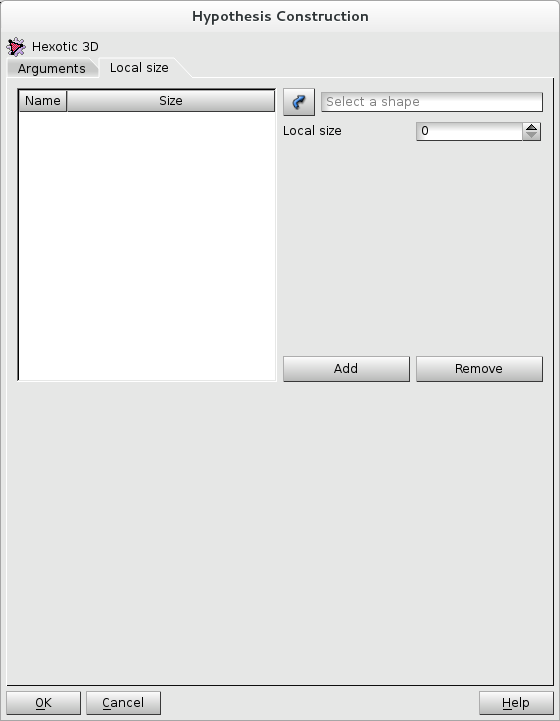
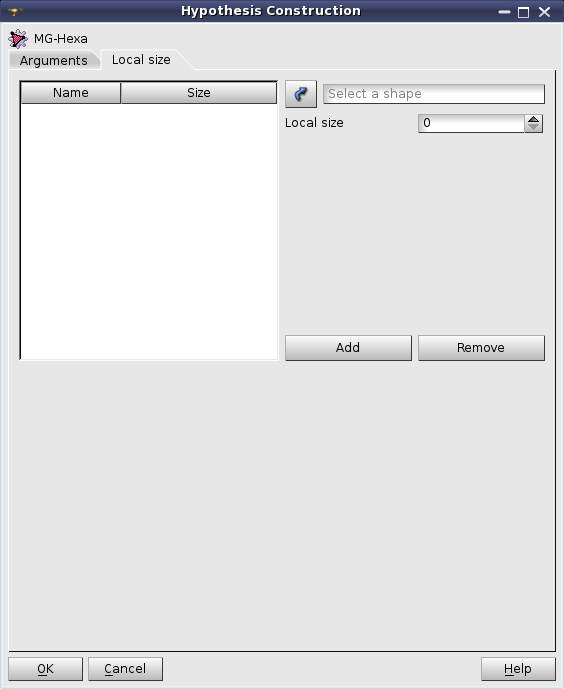
COTECH: Update names of DISTENE products
Almost full replacement of old names

Changed region(s): [[0.0, 0.0, 1.0, 1.0]]

diff --git a/src/GUI/HexoticPLUGIN_msg_ja.ts b/src/GUI/HexoticPLUGIN_msg_ja.ts
@@ -5,7 +5,7 @@
     <name>@default</name>
     <message>
       <source>Hexotic_3D_HYPOTHESIS</source>
-      <translation>Hexotic 3D</translation>
+      <translation>MG-Hexa</translation>
     </message>
     <message>
       <source>Hexotic_3D_TITLE</source>

diff --git a/src/GUI/HexoticPLUGIN_msg_fr.ts b/src/GUI/HexoticPLUGIN_msg_fr.ts
@@ -9,7 +9,7 @@
     </message>
     <message>
         <source>Hexotic_3D_HYPOTHESIS</source>
-        <translation>Hexotic 3D</translation>
+        <translation>MG-Hexa</translation>
     </message>
     <message>
         <source>Hexotic_3D_TITLE</source>

diff --git a/doc/salome/examples/hexoticsubdom3.py b/doc/salome/examples/hexoticsubdom3.py
@@ -19,7 +19,7 @@
 
 import salome
 salome.salome_init()
-import GEOM
+
 from salome.geom import geomBuilder
 geompy = geomBuilder.New(salome.myStudy)
 
@@ -42,36 +42,36 @@ geompy.addToStudy( Cut_2, 'Cut_2' )
 
 # Create filters
 # aFilter1: elements inside small sphere
-aFilter1 = smesh.GetFilterFromCriteria([smesh.GetCriterion(SMESH.VOLUME,SMESH.FT_BelongToGeom,SMESH.FT_Undefined,Sphere_2)])
+aFilter1 = smesh.GetFilter(SMESH.VOLUME,SMESH.FT_BelongToGeom,'=',Sphere_2)
 # aFilter2: elements inside big sphere and not inside small sphere
-aFilter2 = smesh.GetFilterFromCriteria([smesh.GetCriterion(SMESH.VOLUME,SMESH.FT_BelongToGeom,SMESH.FT_Undefined,Sphere_1, SMESH.FT_LogicalAND),
-                                        smesh.GetCriterion(SMESH.VOLUME,SMESH.FT_BelongToGeom,SMESH.FT_Undefined,Sphere_2, SMESH.FT_LogicalNOT)])
+aFilter2 = smesh.GetFilterFromCriteria([smesh.GetCriterion(SMESH.VOLUME,SMESH.FT_BelongToGeom,'=',Sphere_1, SMESH.FT_LogicalAND),
+                                        smesh.GetCriterion(SMESH.VOLUME,SMESH.FT_BelongToGeom,'=',Sphere_2, SMESH.FT_LogicalNOT)])
 # aFilter3: elements not inside big sphere
-aFilter3 = smesh.GetFilterFromCriteria([smesh.GetCriterion(SMESH.VOLUME,SMESH.FT_BelongToGeom,SMESH.FT_Undefined,Sphere_1, SMESH.FT_LogicalNOT)])
+aFilter3 = smesh.GetFilter(SMESH.VOLUME,SMESH.FT_BelongToGeom,'=',Sphere_1, SMESH.FT_LogicalNOT)
 
 # Create mesh of Cut_2 with sd mode 3
 print "Create mesh of Cut_2 with sd mode 3"
-Mesh_hexotic_sd3 = smesh.Mesh(Cut_2, "Mesh_hexotic_sd3")
+Mesh_mghexa_sd3 = smesh.Mesh(Cut_2, "Mesh_mghexa_sd3")
 
-# Create the 2D algo: BlSurf with geometrical mesh
-Mesh_hexotic_sd3.Triangle(algo=smeshBuilder.BLSURF).Parameters().SetGeometricMesh( 1 )
+# Create the 2D algo: MG-CADSurf with geometrical mesh
+Mesh_mghexa_sd3.Triangle(algo=smeshBuilder.MG_CADSurf).SetGeometricMesh( 1 )
 
-# Create the 3D algo: Hexotic with:
+# Create the 3D algo: MG-Hexa with:
 # - minl = 4
 # - maxl = 8
 # - sd = 3
-Mesh_hexotic_sd3.Hexahedron(algo=smeshBuilder.Hexotic).SetMinMaxHexes(4, 8).SetHexoticSdMode( 3 )
+Mesh_mghexa_sd3.Hexahedron(algo=smeshBuilder.MG_Hexa).SetMinMaxHexes(4, 8).SetHexoticSdMode( 3 )
 
 # Create the groups on filters
-g1 = Mesh_hexotic_sd3.GroupOnFilter(SMESH.VOLUME, 'small sphere', aFilter1 )
+g1 = Mesh_mghexa_sd3.GroupOnFilter(SMESH.VOLUME, 'small sphere', aFilter1 )
 g1.SetColor( SALOMEDS.Color( 1, 0, 0 ))
-g2 = Mesh_hexotic_sd3.GroupOnFilter(SMESH.VOLUME, 'big sphere - small sphere', aFilter2 )
+g2 = Mesh_mghexa_sd3.GroupOnFilter(SMESH.VOLUME, 'big sphere - small sphere', aFilter2 )
 g2.SetColor( SALOMEDS.Color( 0, 1, 0 ))
-g3 = Mesh_hexotic_sd3.GroupOnFilter(SMESH.VOLUME, 'box - big sphere', aFilter3 )
+g3 = Mesh_mghexa_sd3.GroupOnFilter(SMESH.VOLUME, 'box - big sphere', aFilter3 )
 g3.SetColor( SALOMEDS.Color( 0, 0, 1 ))
 
 # Compute
-Mesh_hexotic_sd3.Compute()
+Mesh_mghexa_sd3.Compute()
 
 # End of script
 

diff --git a/doc/salome/examples/hexoticsubdom1.py b/doc/salome/examples/hexoticsubdom1.py
@@ -19,7 +19,7 @@
 
 import salome
 salome.salome_init()
-import GEOM
+
 from salome.geom import geomBuilder
 geompy = geomBuilder.New(salome.myStudy)
 
@@ -43,35 +43,35 @@ geompy.addToStudy( Cut_2, 'Cut_2' )
 
 # Create filters
 # aFilter1: elements inside small sphere
-aFilter1 = smesh.GetFilterFromCriteria([smesh.GetCriterion(SMESH.VOLUME,SMESH.FT_BelongToGeom,SMESH.FT_Undefined,Sphere_2)])
+aFilter1 = smesh.GetFilter(SMESH.VOLUME,SMESH.FT_BelongToGeom,'=',Sphere_2)
 # aFilter2: elements inside big sphere and not inside small sphere
-aFilter2 = smesh.GetFilterFromCriteria([smesh.GetCriterion(SMESH.VOLUME,SMESH.FT_BelongToGeom,SMESH.FT_Undefined,Sphere_1, SMESH.FT_LogicalAND),
-                                        smesh.GetCriterion(SMESH.VOLUME,SMESH.FT_BelongToGeom,SMESH.FT_Undefined,Sphere_2, SMESH.FT_LogicalNOT)])
+aFilter2 = smesh.GetFilterFromCriteria([smesh.GetCriterion(SMESH.VOLUME,SMESH.FT_BelongToGeom,'=',Sphere_1, SMESH.FT_LogicalAND),
+                                        smesh.GetCriterion(SMESH.VOLUME,SMESH.FT_BelongToGeom,'=',Sphere_2, SMESH.FT_LogicalNOT)])
 # aFilter3: elements not inside big sphere
-aFilter3 = smesh.GetFilterFromCriteria([smesh.GetCriterion(SMESH.VOLUME,SMESH.FT_BelongToGeom,SMESH.FT_Undefined,Sphere_1, SMESH.FT_LogicalNOT)])
+aFilter3 = smesh.GetFilter(SMESH.VOLUME,SMESH.FT_BelongToGeom,'=',Sphere_1, SMESH.FT_LogicalNOT)
 
 # Create mesh of Cut_2 with sd mode 1
 print "Create mesh of Cut_2 with sd mode 1"
-Mesh_hexotic_sd1 = smesh.Mesh(Cut_2, "Mesh_hexotic_sd1")
+Mesh_mghexa_sd1 = smesh.Mesh(Cut_2, "Mesh_mghexa_sd1")
 
-# Create the 2D algo: BlSurf with geometrical mesh
-Mesh_hexotic_sd1.Triangle(algo=smeshBuilder.BLSURF).Parameters().SetGeometricMesh( 1 )
+# Create the 2D algo: MG-CADSurf with geometrical mesh
+Mesh_mghexa_sd1.Triangle(algo=smeshBuilder.MG_CADSurf).SetGeometricMesh( 1 )
 
-# Create the 3D algo: Hexotic with:
+# Create the 3D algo: MG-Hexa with:
 # - minl = 4
 # - maxl = 8
 # - sd = 1
-Mesh_hexotic_sd1.Hexahedron(algo=smeshBuilder.Hexotic).SetMinMaxHexes(4, 8).SetHexoticSdMode( 1 )
+Mesh_mghexa_sd1.Hexahedron(algo=smeshBuilder.MG_Hexa).SetMinMaxHexes(4, 8).SetHexoticSdMode( 1 )
 
 # Create the groups on filters
-g1 = Mesh_hexotic_sd1.GroupOnFilter(SMESH.VOLUME, 'small sphere', aFilter1 )
+g1 = Mesh_mghexa_sd1.GroupOnFilter(SMESH.VOLUME, 'small sphere', aFilter1 )
 g1.SetColor( SALOMEDS.Color( 1, 0, 0 ))
-g2 = Mesh_hexotic_sd1.GroupOnFilter(SMESH.VOLUME, 'big sphere - small sphere', aFilter2 )
+g2 = Mesh_mghexa_sd1.GroupOnFilter(SMESH.VOLUME, 'big sphere - small sphere', aFilter2 )
 g2.SetColor( SALOMEDS.Color( 0, 1, 0 ))
-g3 = Mesh_hexotic_sd1.GroupOnFilter(SMESH.VOLUME, 'box - big sphere', aFilter3 )
+g3 = Mesh_mghexa_sd1.GroupOnFilter(SMESH.VOLUME, 'box - big sphere', aFilter3 )
 g3.SetColor( SALOMEDS.Color( 0, 0, 1 ))
 
 # Compute
-Mesh_hexotic_sd1.Compute()
+Mesh_mghexa_sd1.Compute()
 
 # End of script

diff --git a/doc/salome/examples/hexoticsubdom2.py b/doc/salome/examples/hexoticsubdom2.py
@@ -19,7 +19,7 @@
 
 import salome
 salome.salome_init()
-import GEOM
+
 from salome.geom import geomBuilder
 geompy = geomBuilder.New(salome.myStudy)
 
@@ -42,36 +42,36 @@ geompy.addToStudy( Cut_2, 'Cut_2' )
 
 # Create filters
 # aFilter1: elements inside small sphere
-aFilter1 = smesh.GetFilterFromCriteria([smesh.GetCriterion(SMESH.VOLUME,SMESH.FT_BelongToGeom,SMESH.FT_Undefined,Sphere_2)])
+aFilter1 = smesh.GetFilter(SMESH.VOLUME,SMESH.FT_BelongToGeom,'=',Sphere_2)
 # aFilter2: elements inside big sphere and not inside small sphere
-aFilter2 = smesh.GetFilterFromCriteria([smesh.GetCriterion(SMESH.VOLUME,SMESH.FT_BelongToGeom,SMESH.FT_Undefined,Sphere_1, SMESH.FT_LogicalAND),
-                                        smesh.GetCriterion(SMESH.VOLUME,SMESH.FT_BelongToGeom,SMESH.FT_Undefined,Sphere_2, SMESH.FT_LogicalNOT)])
+aFilter2 = smesh.GetFilterFromCriteria([smesh.GetCriterion(SMESH.VOLUME,SMESH.FT_BelongToGeom,'=',Sphere_1, SMESH.FT_LogicalAND),
+                                        smesh.GetCriterion(SMESH.VOLUME,SMESH.FT_BelongToGeom,'=',Sphere_2, SMESH.FT_LogicalNOT)])
 # aFilter3: elements not inside big sphere
-aFilter3 = smesh.GetFilterFromCriteria([smesh.GetCriterion(SMESH.VOLUME,SMESH.FT_BelongToGeom,SMESH.FT_Undefined,Sphere_1, SMESH.FT_LogicalNOT)])
+aFilter3 = smesh.GetFilter(SMESH.VOLUME,SMESH.FT_BelongToGeom,'=',Sphere_1, SMESH.FT_LogicalNOT)
 
 # Create mesh of Cut_2 with sd mode 2
 print "Create mesh of Cut_2 with sd mode 2"
-Mesh_hexotic_sd2 = smesh.Mesh(Cut_2, "Mesh_hexotic_sd2")
+Mesh_mghexa_sd2 = smesh.Mesh(Cut_2, "Mesh_mghexa_sd2")
 
-# Create the 2D algo: BlSurf with geometrical mesh
-Mesh_hexotic_sd2.Triangle(algo=smeshBuilder.BLSURF).Parameters().SetGeometricMesh( 1 )
+# Create the 2D algo: MG-CADSurf with geometrical mesh
+Mesh_mghexa_sd2.Triangle(algo=smeshBuilder.MG_CADSurf).SetGeometricMesh( 1 )
 
-# Create the 3D algo: Hexotic with:
+# Create the 3D algo: MG-Hexa with:
 # - minl = 4
 # - maxl = 8
 # - sd = 2
-Mesh_hexotic_sd2.Hexahedron(algo=smeshBuilder.Hexotic).SetMinMaxHexes(4, 8).SetHexoticSdMode( 2 )
+Mesh_mghexa_sd2.Hexahedron(smeshBuilder.MG_Hexa).SetMinMaxHexes(4, 8).SetHexoticSdMode( 2 )
 
 # Create the groups on filters
-g1 = Mesh_hexotic_sd2.GroupOnFilter(SMESH.VOLUME, 'small sphere', aFilter1 )
+g1 = Mesh_mghexa_sd2.GroupOnFilter(SMESH.VOLUME, 'small sphere', aFilter1 )
 g1.SetColor( SALOMEDS.Color( 1, 0, 0 ))
-g2 = Mesh_hexotic_sd2.GroupOnFilter(SMESH.VOLUME, 'big sphere - small sphere', aFilter2 )
+g2 = Mesh_mghexa_sd2.GroupOnFilter(SMESH.VOLUME, 'big sphere - small sphere', aFilter2 )
 g2.SetColor( SALOMEDS.Color( 0, 1, 0 ))
-g3 = Mesh_hexotic_sd2.GroupOnFilter(SMESH.VOLUME, 'box - big sphere', aFilter3 )
+g3 = Mesh_mghexa_sd2.GroupOnFilter(SMESH.VOLUME, 'box - big sphere', aFilter3 )
 g3.SetColor( SALOMEDS.Color( 0, 0, 1 ))
 
 # Compute
-Mesh_hexotic_sd2.Compute()
+Mesh_mghexa_sd2.Compute()
 
 # End of script
 

diff --git a/src/HexoticPlugin/HexoticPLUGINBuilder.py b/src/HexoticPlugin/HexoticPLUGINBuilder.py
@@ -19,7 +19,7 @@
 
 ##
 # @package HexoticPLUGINBuilder
-# Python API for the Hexotic meshing plug-in module.
+# Python API for the MG-Hexa meshing plug-in module.
 
 from salome.smesh.smesh_algorithm import Mesh_Algorithm
 from salome.smesh.smeshBuilder import AssureGeomPublished
@@ -46,7 +46,7 @@ Hexotic = MG_Hexa
 
 ## Defines a hexahedron 3D algorithm
 #
-#  It is created by calling smeshBuilder.Mesh.Hexahedron( smeshBuilder.Hexotic, geom=0 )
+#  It is created by calling smeshBuilder.Mesh.Hexahedron( smeshBuilder.MG_Hexa, geom=0 )
 class Hexotic_Algorithm(Mesh_Algorithm):
 
     ## name of the dynamic method in smeshBuilder.Mesh class
@@ -54,7 +54,7 @@ class Hexotic_Algorithm(Mesh_Algorithm):
     meshMethod = "Hexahedron"
     ## type of algorithm used with helper function in smeshBuilder.Mesh class
     #  @internal
-    algoType   = Hexotic
+    algoType   = MG_Hexa
     ## doc string of the method in smeshBuilder.Mesh class
     #  @internal
     docHelper  = "Creates hexahedron 3D algorithm for volumes"
@@ -66,11 +66,11 @@ class Hexotic_Algorithm(Mesh_Algorithm):
     def __init__(self, mesh, geom=0):
         Mesh_Algorithm.__init__(self)
         if noHexoticPlugin: print "Warning: HexoticPlugin module unavailable"
-        self.Create(mesh, geom, Hexotic, "libHexoticEngine.so")
+        self.Create(mesh, geom, MG_Hexa, "libHexoticEngine.so")
         self.params = None
         pass
 
-    ## Defines "SetMinMaxHexes" hypothesis to give two hexotic parameters
+    ## Defines "SetMinMaxHexes" hypothesis to give two MG-Hexa parameters
     #  @param min minimal level of recursive partitioning on the initial octree cube
     #  @param max maximal level of recursive partitioning on the initial octree cube
     #  @return hypothesis object
@@ -79,7 +79,7 @@ class Hexotic_Algorithm(Mesh_Algorithm):
         self.Parameters().SetHexesMaxLevel(max)
         return self.Parameters()
 
-    ## Defines "SetMinMaxSize" hypothesis to give two hexotic parameters
+    ## Defines "SetMinMaxSize" hypothesis to give two MG-Hexa parameters
     #  @param min minimal element's size
     #  @param max maximal element's size
     #  @return hypothesis object
@@ -107,7 +107,7 @@ class Hexotic_Algorithm(Mesh_Algorithm):
         self.Parameters().UnsetSizeMap(theObject)
         return self.Parameters()
 
-    ## (OBSOLETE) Defines "MinMaxQuad" hypothesis to give three hexotic parameters
+    ## (OBSOLETE) Defines "MinMaxQuad" hypothesis to give three MG-Hexa parameters
     #  @param min minimal level of recursive partitioning on the initial octree cube
     #  @param max maximal level of recursive partitioning on the initial octree cube
     #  @param quad not documented

diff --git a/doc/salome/examples/hexoticdemo.py b/doc/salome/examples/hexoticdemo.py
@@ -19,11 +19,10 @@
 
 import salome
 salome.salome_init()
-import GEOM
+
 from salome.geom import geomBuilder
 geompy = geomBuilder.New(salome.myStudy)
 
-import SMESH, SALOMEDS
 from salome.smesh import smeshBuilder
 smesh =  smeshBuilder.New(salome.myStudy)
 
@@ -33,23 +32,23 @@ sphere = geompy.MakeSphereR(100.)
 geompy.addToStudy(sphere, "sphere")
 
 # create a mesh on the sphere
-hexoticMesh = smesh.Mesh(sphere,"sphere: BLSurf and Hexotic mesh")
+mghexaMesh = smesh.Mesh(sphere,"sphere: MG-CADSurf and MG-Hexa mesh")
 
-# create a BLSurf algorithm for faces
-BLSURF = hexoticMesh.Triangle(algo=smeshBuilder.BLSURF)
-BLSURF.SetGeometricMesh( 1 )
+# create a MG-CADSurf algorithm for faces
+MG_CADSurf = mghexaMesh.Triangle(algo=smeshBuilder.MG_CADSurf)
+MG_CADSurf.SetGeometricMesh( 1 )
 
-# create a Hexotic algorithm for volumes
-HEXOTIC = hexoticMesh.Hexahedron(algo=smeshBuilder.Hexotic)
+# create a MG-Hexa algorithm for volumes
+MG_Hexa = mghexaMesh.Hexahedron(algo=smeshBuilder.MG_Hexa)
 
 ## compute the mesh
-#hexoticMesh.Compute()
+#mghexaMesh.Compute()
 
 # Change the level of subdivision
-HEXOTIC.SetMinMaxHexes(4, 8)
+MG_Hexa.SetMinMaxHexes(4, 8)
 
 ## compute the mesh
-#hexoticMesh.Compute()
+#mghexaMesh.Compute()
 
 # Local size
 
@@ -57,10 +56,10 @@ HEXOTIC.SetMinMaxHexes(4, 8)
 faces = geompy.SubShapeAll(sphere, geompy.ShapeType["FACE"])
 
 # Set a local size on the face
-HEXOTIC.SetMinMaxSize(10, 20)
-HEXOTIC.SetSizeMap(faces[0], 10)
+MG_Hexa.SetMinMaxSize(10, 20)
+MG_Hexa.SetSizeMap(faces[0], 10)
 
 # compute the mesh
-hexoticMesh.Compute()
+mghexaMesh.Compute()
 
 # End of script

diff --git a/doc/salome/examples/hexoticsubdom4.py b/doc/salome/examples/hexoticsubdom4.py
@@ -19,28 +19,27 @@
 
 import salome
 salome.salome_init()
-import GEOM
+
 from salome.geom import geomBuilder
 geompy = geomBuilder.New(salome.myStudy)
 
-import SMESH, SALOMEDS
 from salome.smesh import smeshBuilder
 smesh =  smeshBuilder.New(salome.myStudy)
 
 # Create geometry: a box cut by a plane
 Box_1 = geompy.MakeBoxDXDYDZ(200, 200, 200)
 Translation_1 = geompy.MakeTranslation(Box_1, 0, 200, 0)
-Partition_1 = geompy.MakePartition([Box_1, Translation_1], [], [], [], geompy.ShapeType["SOLID"], 0, [], 0)
+Partition_1 = geompy.MakePartition([Box_1, Translation_1])
 geompy.addToStudy( Box_1, 'Box_1' )
 geompy.addToStudy( Translation_1, 'Translation_1' )
 geompy.addToStudy( Partition_1, 'Partition_1' )
 
 # Create mesh of Partition_1 with sd mode 4 (default sd mode in SALOME)
-Mesh_hexotic_sd4 = smesh.Mesh(Partition_1, "Mesh_hexotic_sd4")
-Mesh_hexotic_sd4.Triangle(algo=smeshBuilder.BLSURF)
-Mesh_hexotic_sd4.Hexahedron(algo=smeshBuilder.Hexotic).SetMinMaxHexes(4, 8).SetHexoticSdMode( 4 )
+Mesh_mghexa_sd4 = smesh.Mesh(Partition_1, "Mesh_mghexa_sd4")
+Mesh_mghexa_sd4.Triangle(smeshBuilder.MG_CADSurf)
+Mesh_mghexa_sd4.Hexahedron(smeshBuilder.MG_Hexa).SetMinMaxHexes(4, 8).SetHexoticSdMode( 4 )
 
 # Compute
-Mesh_hexotic_sd4.Compute()
+Mesh_mghexa_sd4.Compute()
 
 # End of script

diff --git a/src/GUI/HexoticPluginGUI_HypothesisCreator.h b/src/GUI/HexoticPluginGUI_HypothesisCreator.h
@@ -58,7 +58,7 @@ typedef struct
 } HexoticHypothesisData;
 
 /*!
- * \brief Class for creation of Hexotic hypotheses
+ * \brief Class for creation of MG-Hexa hypotheses
 */
 class HEXOTICPLUGIN_GUI_EXPORT HexoticPluginGUI_HypothesisCreator : public SMESHGUI_GenericHypothesisCreator
 {

diff --git a/src/HexoticPlugin/__init__.py b/src/HexoticPlugin/__init__.py
@@ -19,4 +19,4 @@
 
 ##
 # @package HexoticPluginBuilder
-# Python API for the Hexotic meshing plug-in module.
+# Python API for the MG-Hexa meshing plug-in module.
